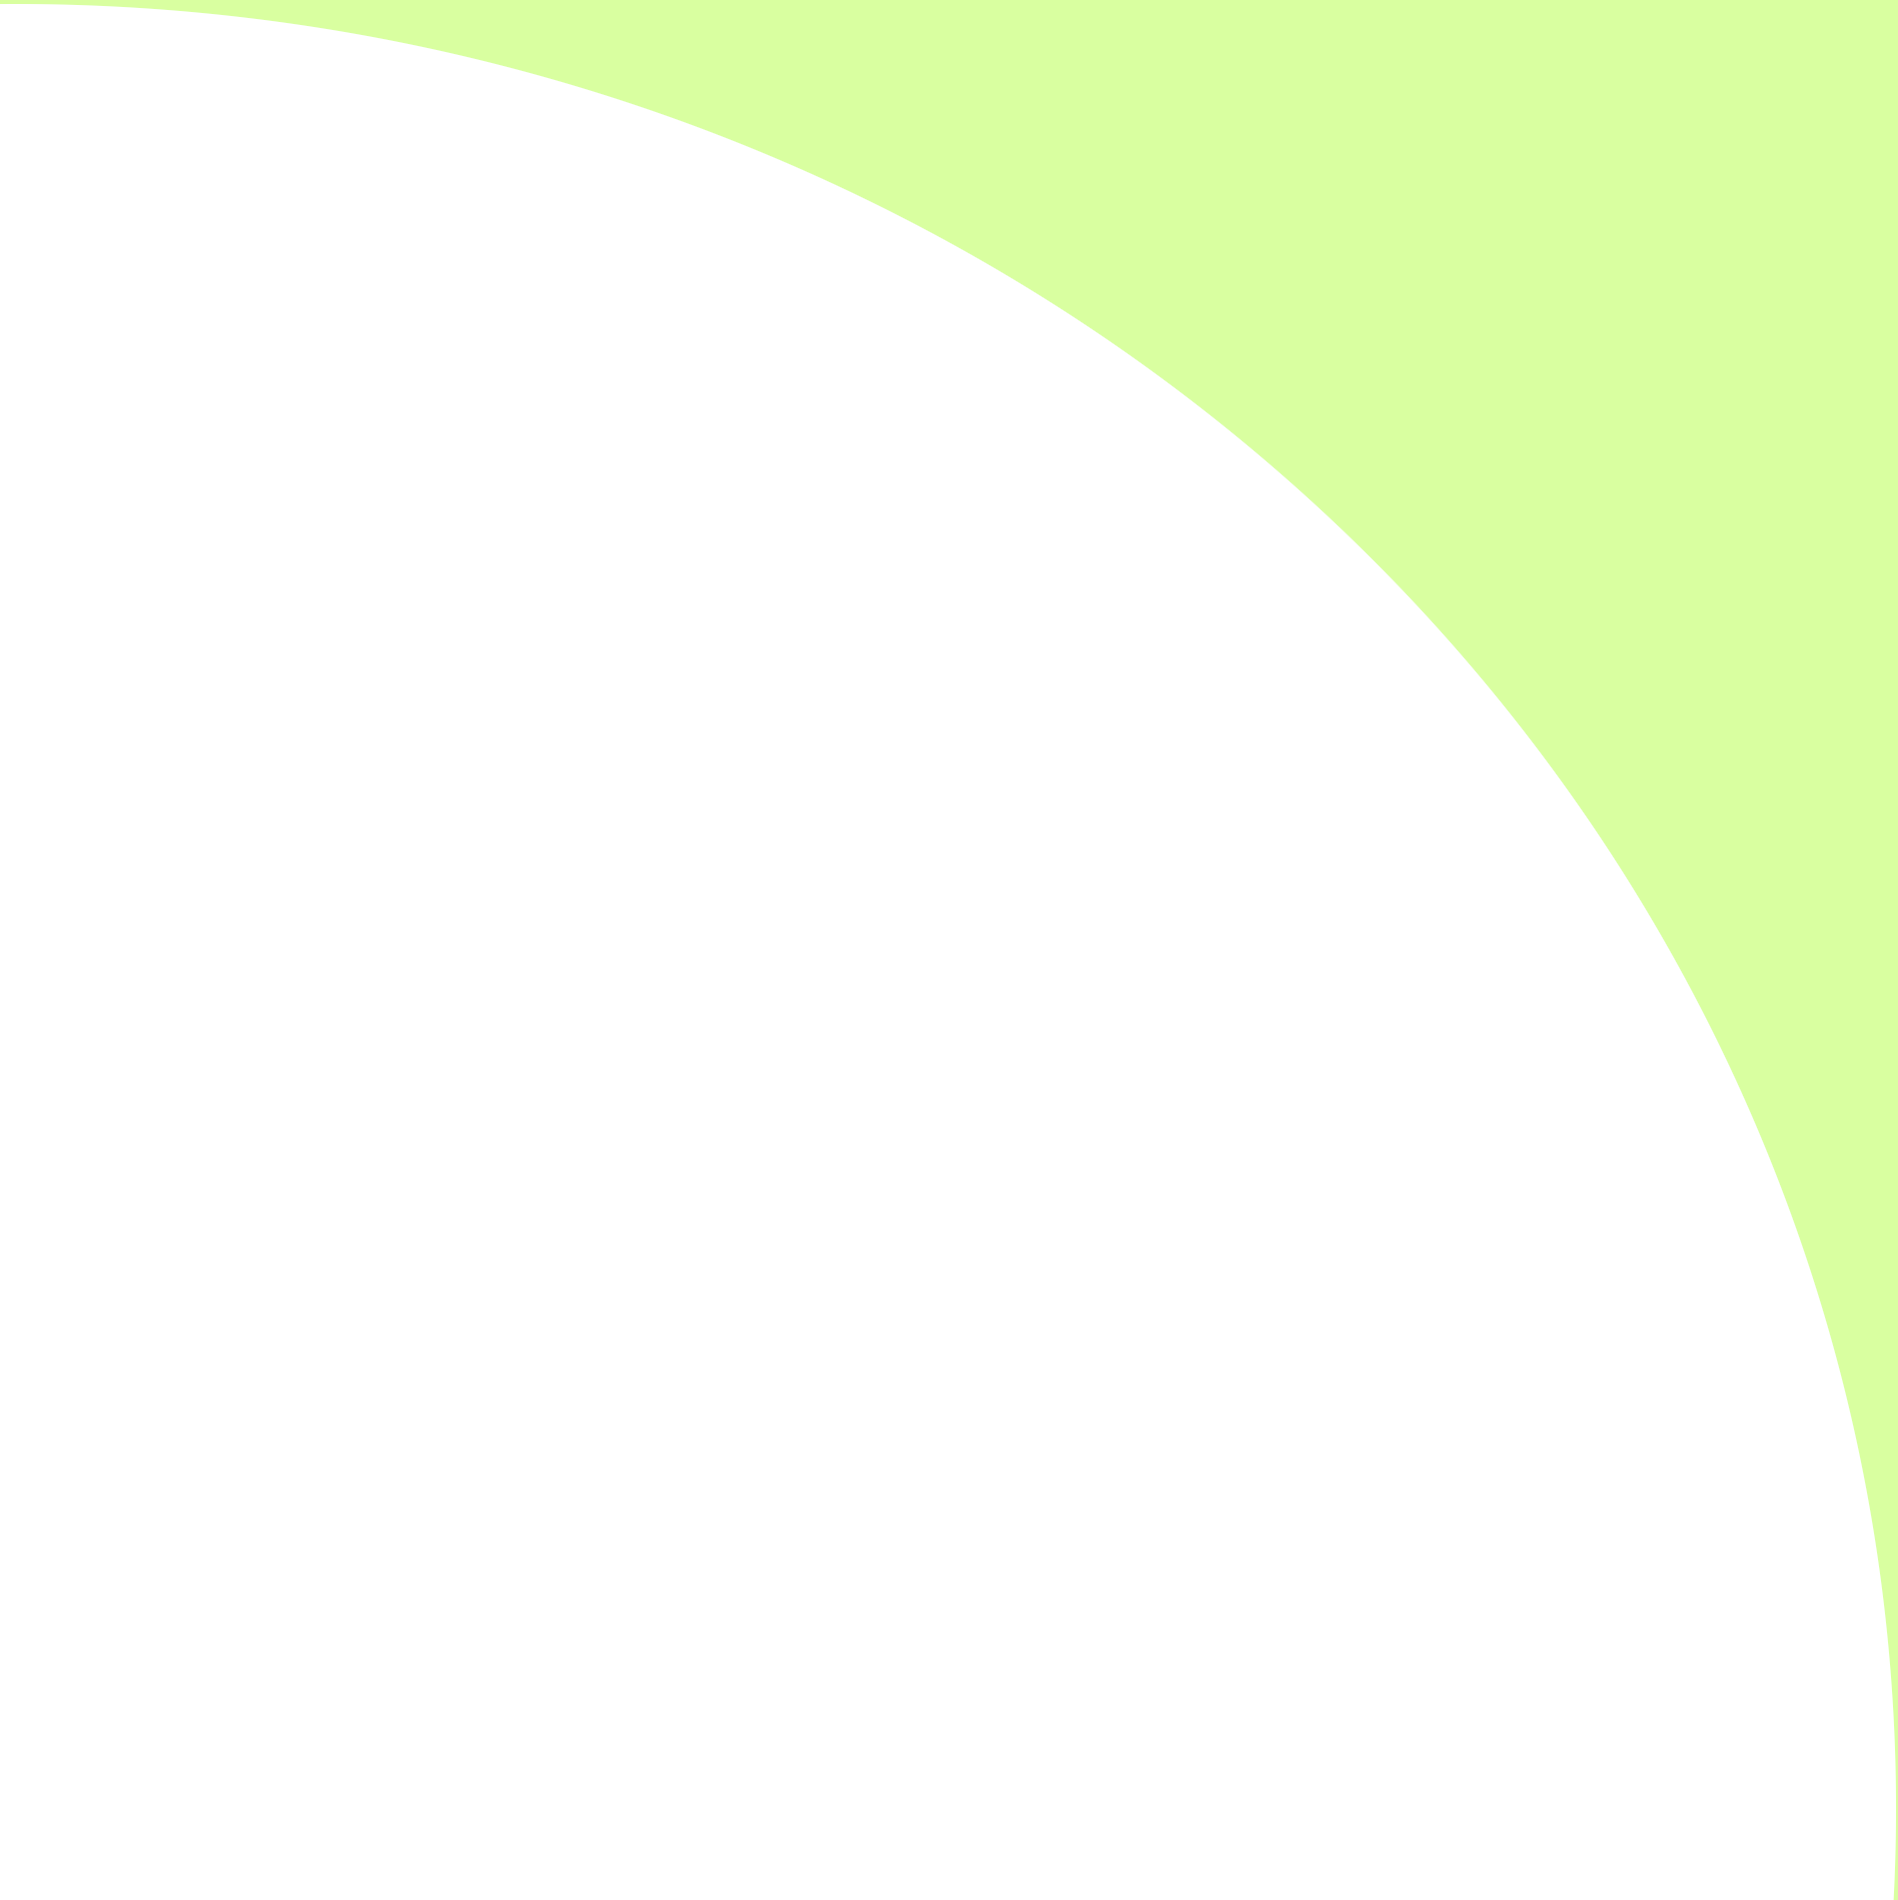
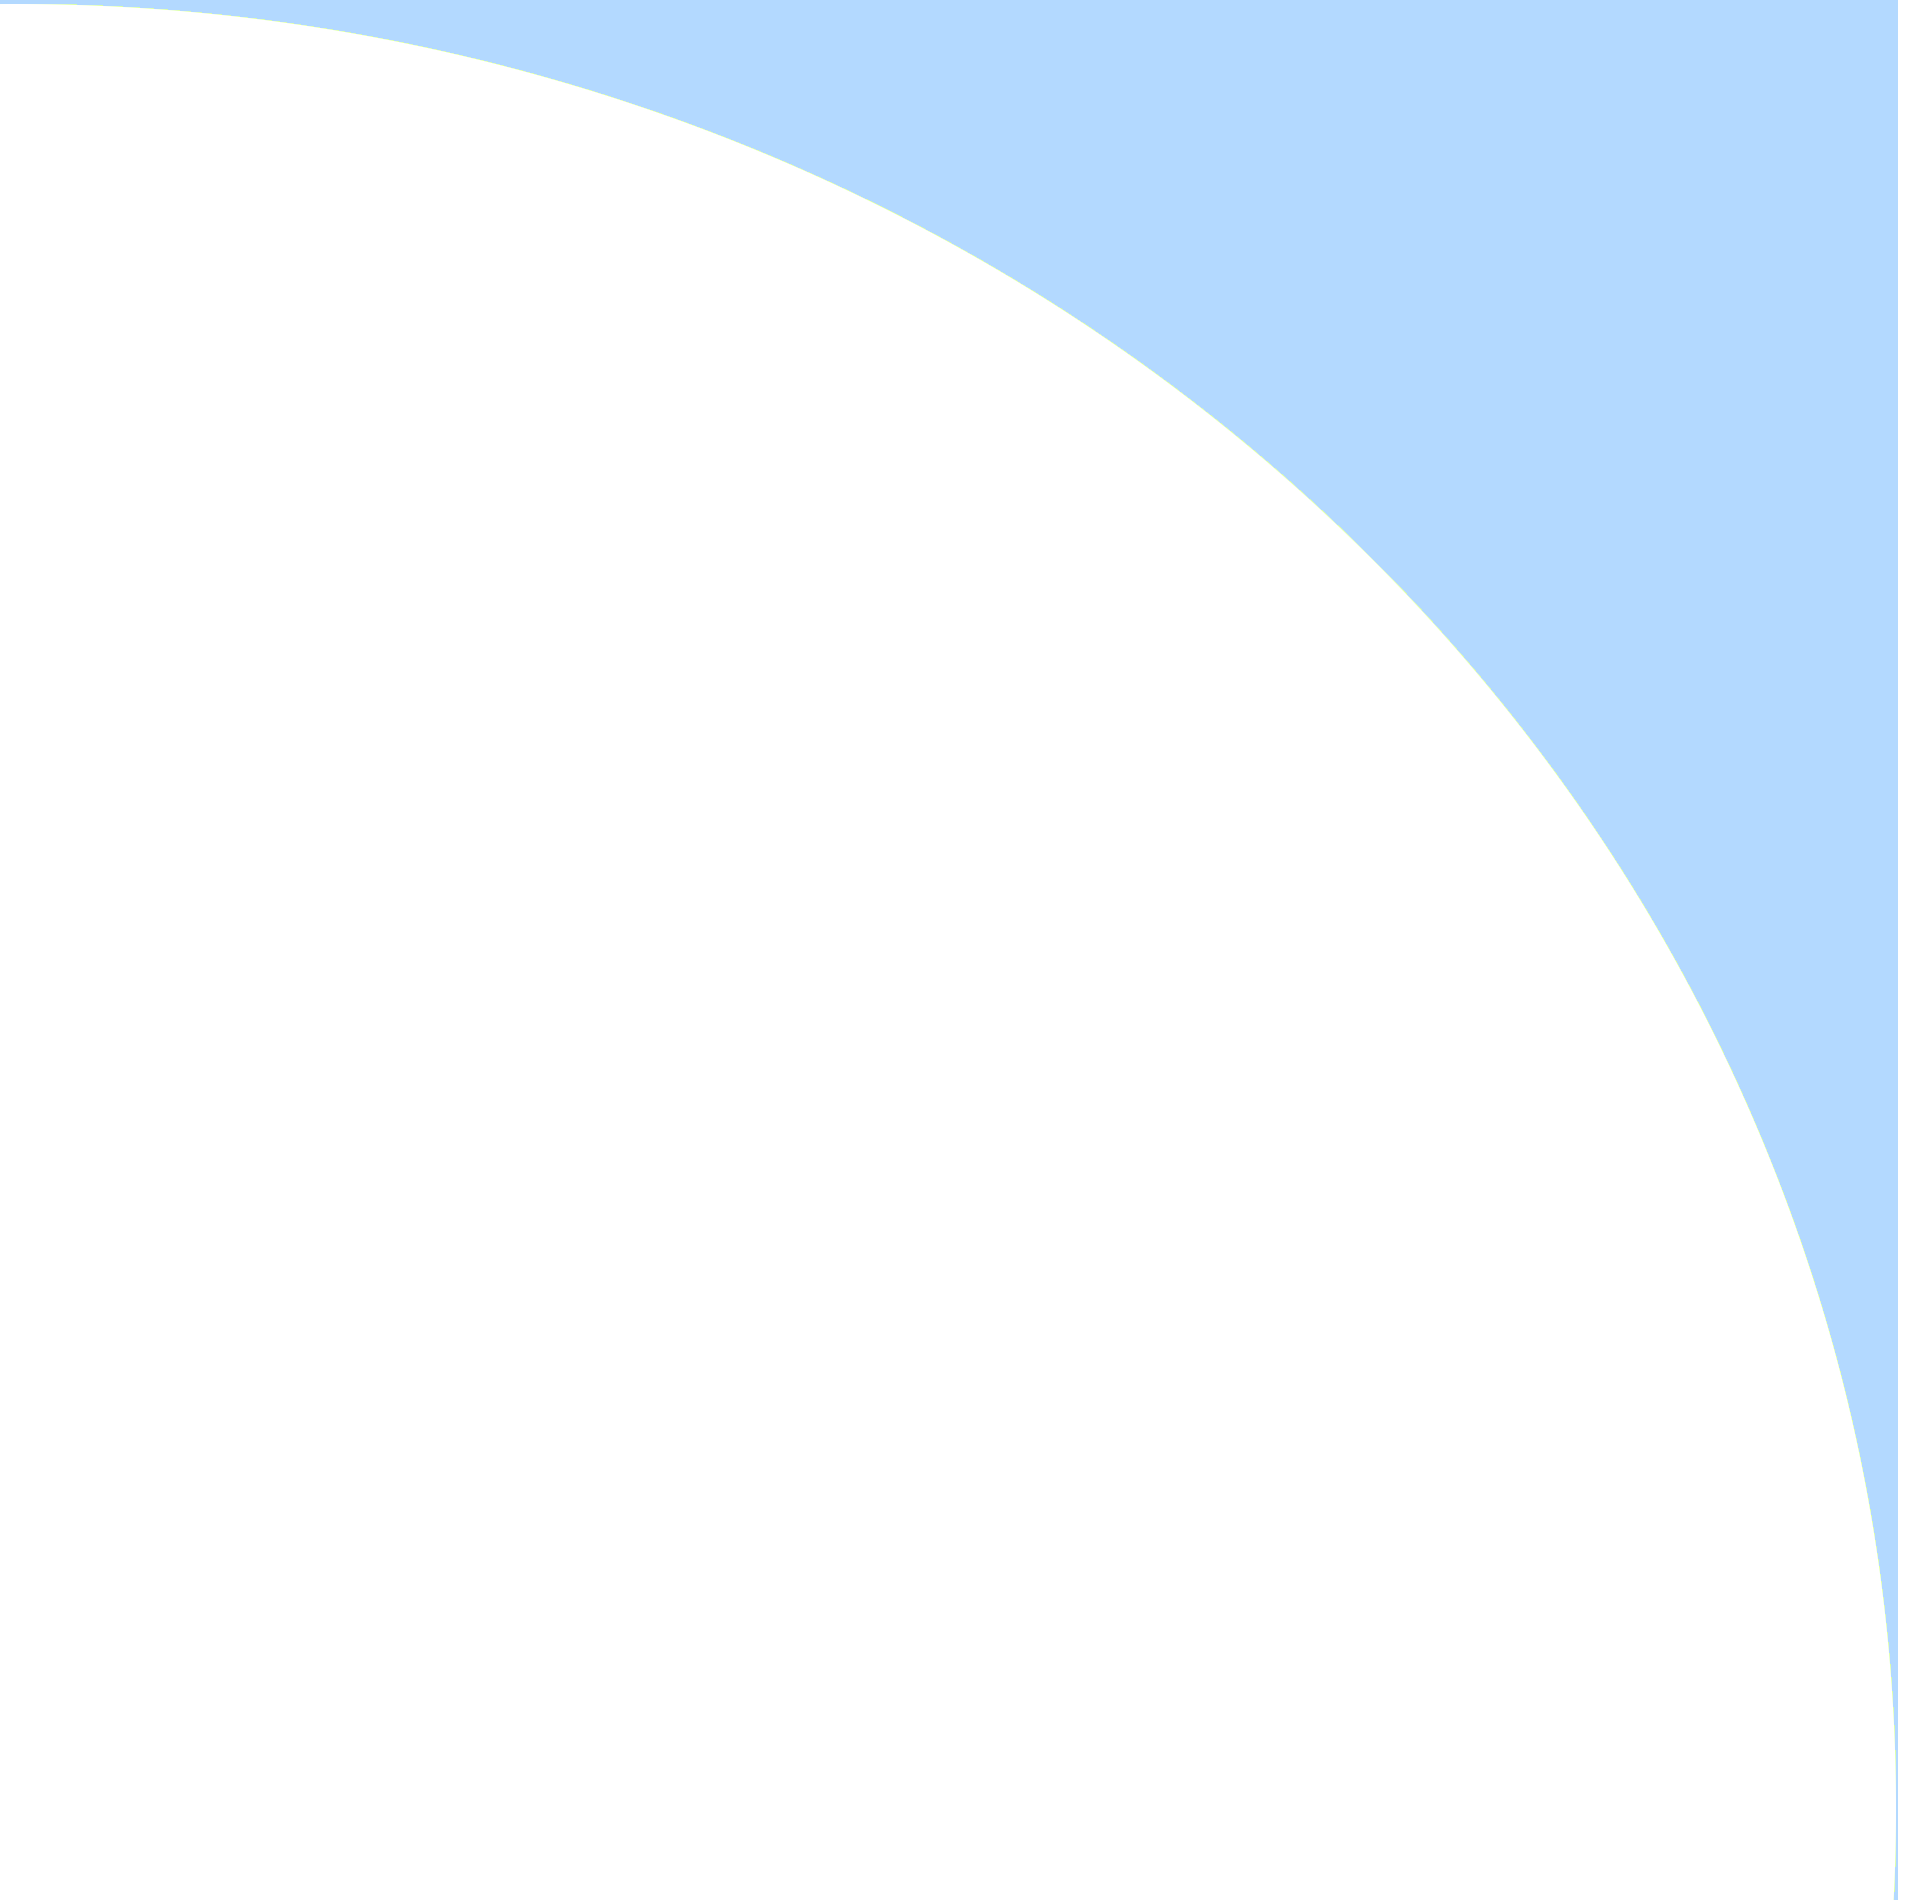
production

Changed region(s): [[0.0622, 0.0, 1.0, 1.0]]

diff --git a/client/pages/production.js b/client/pages/production.js
@@ -19,71 +19,57 @@ const master = importAll(require.context('../assets/images/production/master/', 
 const magnam = importAll(require.context('../assets/images/production/magnam/', false, /\.(png|jpe?g|svg)$/));
 const versus = importAll(require.context('../assets/images/production/versus/', false, /\.(png|jpe?g|svg)$/));
 const navighator = importAll(require.context('../assets/images/production/navighator/', false, /\.(png|jpe?g|svg)$/));
-
+const diffrent = importAll(require.context('../assets/images/production/diffrent/', false, /\.(png|jpe?g|svg)$/));
 const elements = [
     {
         id: 0,
         open: true,
-        photos: master,
-        title: 'TES 550 MASTER',
-        desc: 'text 1',
-        upper_radius: upper_radius,
-        bottom_radius: bottom_radius
+        photos: navighator,
+        title: 'NAVIGHATOR'
     },
     {
         id: 1,
         open: false,
-        photos: bt_tes,
-        title: 'TES 678 BT-TES 720',
-        desc: 'text 1',
-        upper_radius: upper_radius,
-        bottom_radius: bottom_radius
+        photos: illuminatus,
+        title: 'TES 393 ILLUMINATUS'
     },
     {
         id: 2,
         open: false,
-        photos: versus,
-        title: 'TES 246 VERSUS',
-        desc: 'text 1',
-        upper_radius: upper_radius,
-        bottom_radius: bottom_radius
+        photos: dreamer,
+        title: 'TES 32 DREAMER'
     },
     {
         id: 3,
         open: false,
         photos: magnam,
-        title: 'TES 28 MAGNAM',
-        desc: 'text 1',
-        upper_radius: upper_radius,
-        bottom_radius: bottom_radius
+        title: 'TES 28 MAGNAM'
     },
     {
         id: 4,
         open: false,
-        photos: dreamer,
-        title: 'TES 32 DREAMER',
-        desc: 'text 1',
-        upper_radius: upper_radius,
-        bottom_radius: bottom_radius
+        photos: versus,
+        title: 'TES 246 VERSUS'
     },
     {
         id: 5,
         open: false,
-        photos: illuminatus,
-        title: 'TES 393 ILLUMINATUS',
-        desc: 'text 2',
-        upper_radius: upper_radius,
-        bottom_radius: bottom_radius
+        photos: bt_tes,
+        title: 'TES 678 BT-TES 720'
     },
     {
         id: 6,
         open: false,
-        photos: navighator,
-        title: 'NAVIGHATOR',
-        desc: 'text 2',
-        upper_radius: upper_radius,
-        bottom_radius: bottom_radius
+        photos: master,
+        title: 'TES 550 MASTER'
+    },
+    {
+        id: 7,
+        open: false,
+        photos: diffrent,
+        title: 'INNE MODELE'
     }
+
 
 ];
 const Production = () => {
@@ -127,13 +113,13 @@ const Production = () => {
     const mapExpands = (item) => {
         return (
             <div className={'fullExpand'}>
-                <span className={'upper_radius'}><img src={item.open ? item.upper_radius : ''} style={item.open ? {display: ''} : {display: 'none'}}/> </span>
+                <span className={'upper_radius'}><img src={item.open ? upper_radius : ''} style={item.open ? {display: ''} : {display: 'none'}}/> </span>
                 <div onClick={() => openExpand(item)}
                      className={item.open ? 'expandButton openedExpand' : 'expandButton'} style={{display: 'block'}}>
                     <IoIosArrowDropright className={'fa-blink'} style={item.open ? {display: ''} : {display: 'none'}}/>
                     {item.title}
                 </div>
-                <span className={'bottom_radius'}><img src={item.open ? item.bottom_radius : ''} style={item.open ? {display: 'block'} : {display: 'none'}}/> </span>
+                <span className={'bottom_radius'}><img src={item.open ? bottom_radius : ''} style={item.open ? {display: 'block'} : {display: 'none'}}/> </span>
             </div>
         )
     };
@@ -154,7 +140,6 @@ const Production = () => {
                     {data.map(mapExpands)}
                 </div>
                 <div className={"details"}>
-                    <div className={'boutDesc'}>{pickedOne.desc}</div>
                     <div className={'galleryProd'}>
                         <Gallery>
                             {pickedOne.photos.map(mapToImage)}

diff --git a/client/styles/production.module.scss b/client/styles/production.module.scss
@@ -33,7 +33,7 @@
 
 .openedExpand {
   color: white;
-  background: #d9ffa0;
+  background: #b3d9ff;//#d9ffa0;
   border-bottom-left-radius: 15px;
   border-top-left-radius: 15px;
   text-shadow: 1px 1px grey;
@@ -41,13 +41,6 @@
 
 .openedExpand:hover {
   color: white;
-}
-
-.boutDesc {
-  margin: 1em 1em 0em 1em;
-  width: 17.5em;
-  padding: 1em 1em 1em 1em;
-  text-align: left;
 }
 
 .expand {
@@ -62,8 +55,7 @@
 
 .galleryProd {
   margin: -1em 1em 0em 1em;
-  padding: 0em 1em 1em 1em;
-  width: 46em;
+  padding: 1em 1em 1em 1em;
 }
 
 .expandImages {
@@ -71,7 +63,7 @@
 }
 
 .list_div {
-  padding-top: 4em;
+  padding-top: 3em;
   font-size: 20px;
   display: block;
   align-items: center;
@@ -102,11 +94,12 @@
 }
 
 .details {
-  border: solid 1px #d9ffa0;
+  border: solid 1px #b3d9ff;//#d9ffa0;
   border-radius: 15px;
   margin: 2em 1em 2em 0em;
+  padding: 1em 0em 1em 0em;
   display: flex;
-  background: #d9ffa0;
+  background: #b3d9ff;
 }
 .upper_radius,
 .bottom_radius {

diff --git a/client/components/nav.js b/client/components/nav.js
@@ -26,11 +26,6 @@ const Nav = (props) => {
                         Produkcja
                     </li>
                 </Link>
-                <Link href={"/library"}>
-                    <li onClick={() => setRoute('/library')} className={route === '/library' ? 'pressed' : ''}>
-                        Galeria
-                    </li>
-                </Link>
                 <Link href={"/transport"}>
                     <li onClick={() => setRoute('/transport')} className={route === '/transport' ? 'pressed' : ''}>
                         Transport
